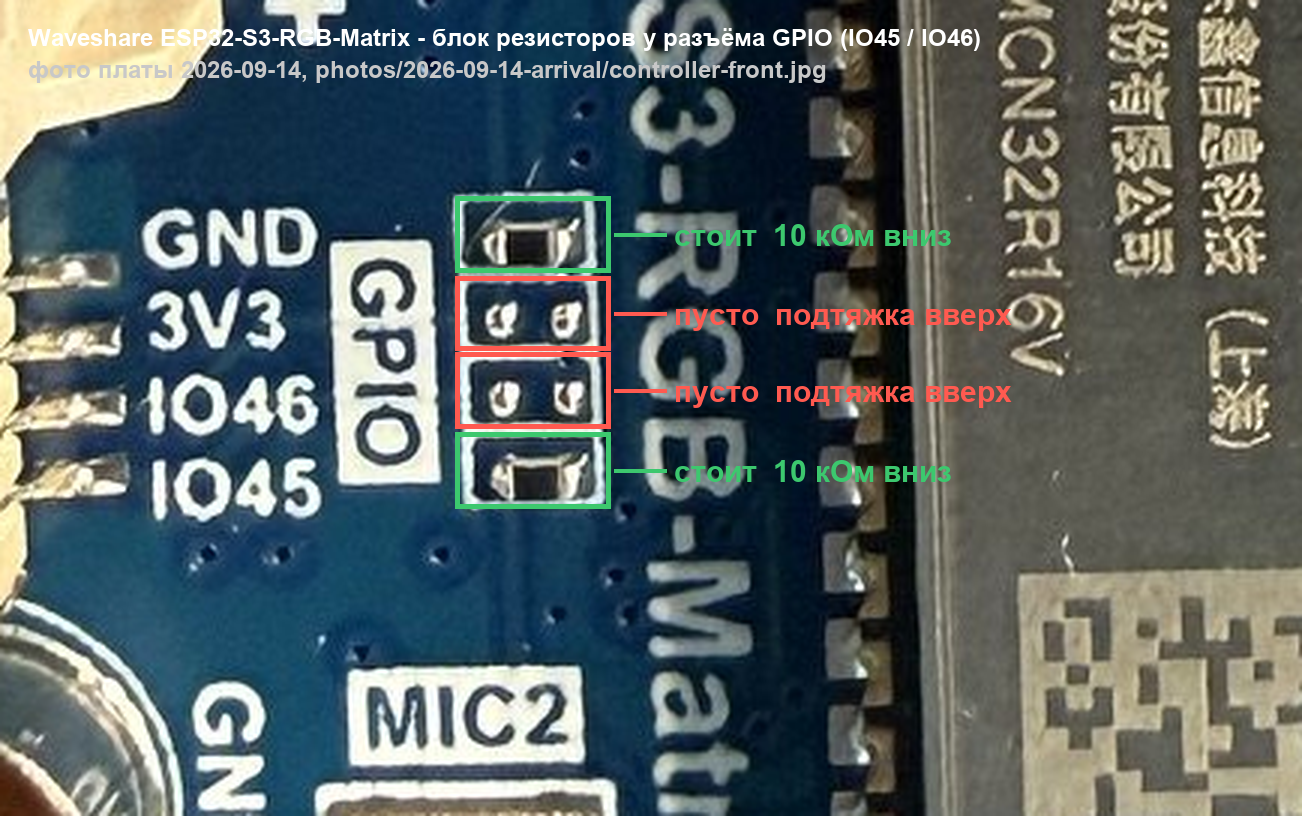
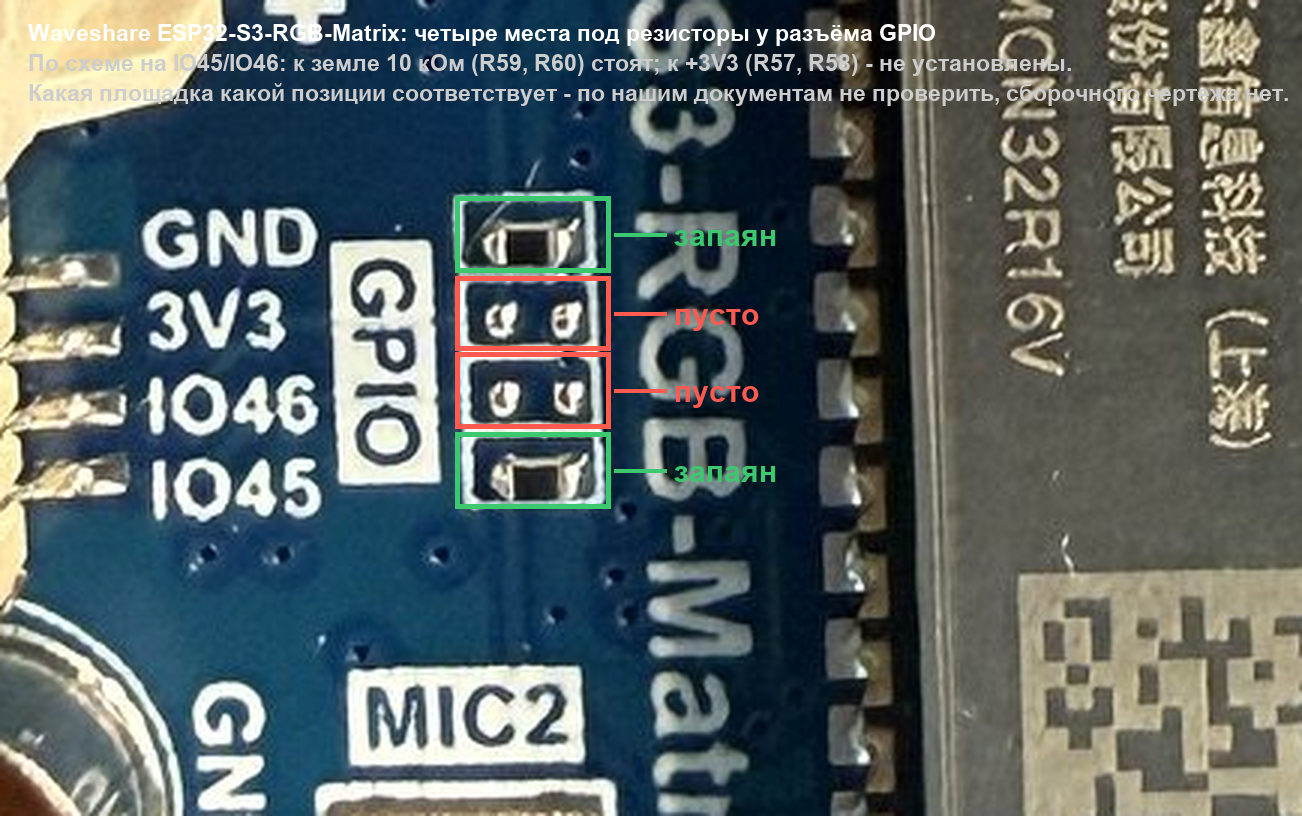
IO45/IO46 pulls: read off the drawing, not off memory
The schematic crop is now in the repository: R57/R58 to 3V3 are NC, R59/R60
10k to GND are fitted. The photo markup no longer claims which pad is which
designator - our drawings cannot show that, only a meter can.

diff --git a/docs/24-ir-remote.md b/docs/24-ir-remote.md
@@ -49,7 +49,7 @@ Then the electrical catch. Read off the sources on 2026-09-16:
 | Fact | Source |
 |---|---|
 | A Vishay receiver's OUT is an open collector with a **30 kΩ pull-up inside the package**; supply 2.0–5.5 V, so 3V3 is in range; V<sub>OSL</sub> ≤ 100 mV at 0.5 mA; I<sub>O</sub> ≤ 5 mA | Vishay datasheet [82459](https://www.vishay.com/docs/82459/tsop48.pdf) rev 2.4, block diagram and the electrical table, read in full |
-| This board pulls IO45 and IO46 **down** with 10 kΩ (R59, R60; the pull-up positions R57, R58 are not fitted) | Waveshare schematic, via `src/control/control.cpp` |
+| This board pulls IO45 and IO46 **down** with 10 kΩ (R59, R60; the pull-up positions R57, R58 to 3V3 are marked NC) | Waveshare schematic page 1, read off the drawing on 2026-09-17 and cropped to `reference-drawings/controller/io45-io46-pull-resistors-schematic.png`. The board photo shows the matching block of four positions by the header, two fitted and two empty (`photos/2026-09-14-arrival/controller-gpio-pull-resistors.png`); **which pad is which designator is not derivable from our drawings** - the 2D drawing is mechanical only |
 
 Those two in series divide the supply:
 

diff --git a/docs/11-control-and-pins.md b/docs/11-control-and-pins.md
@@ -36,7 +36,8 @@ Both header pins are strapping pins, and both are survivable:
   floating (esptool, *Boot Mode Selection*). So anything that holds it high at
   reset stops "hold BOOT through reset" from working, and nothing else.
 - **Both carry 10 kΩ pull-downs on the board** (schematic R59 on IO45, R60 on
-  IO46; the pull-up positions R57 and R58 are not fitted). An internal pull-up
+  IO46; the pull-up positions R57 and R58, both to 3V3, are marked NC - read off
+  the drawing again on 2026-09-17, crop in `reference-drawings/controller/io45-io46-pull-resistors-schematic.png`). An internal pull-up
   loses to them, so anything on these pins must drive them *up*: a knob's common
   goes to 3V3, not GND, and the firmware reads A and B active-high. Found on the
   bench on 2026-09-14, when a knob wired common-to-GND read 0 on both lines at
